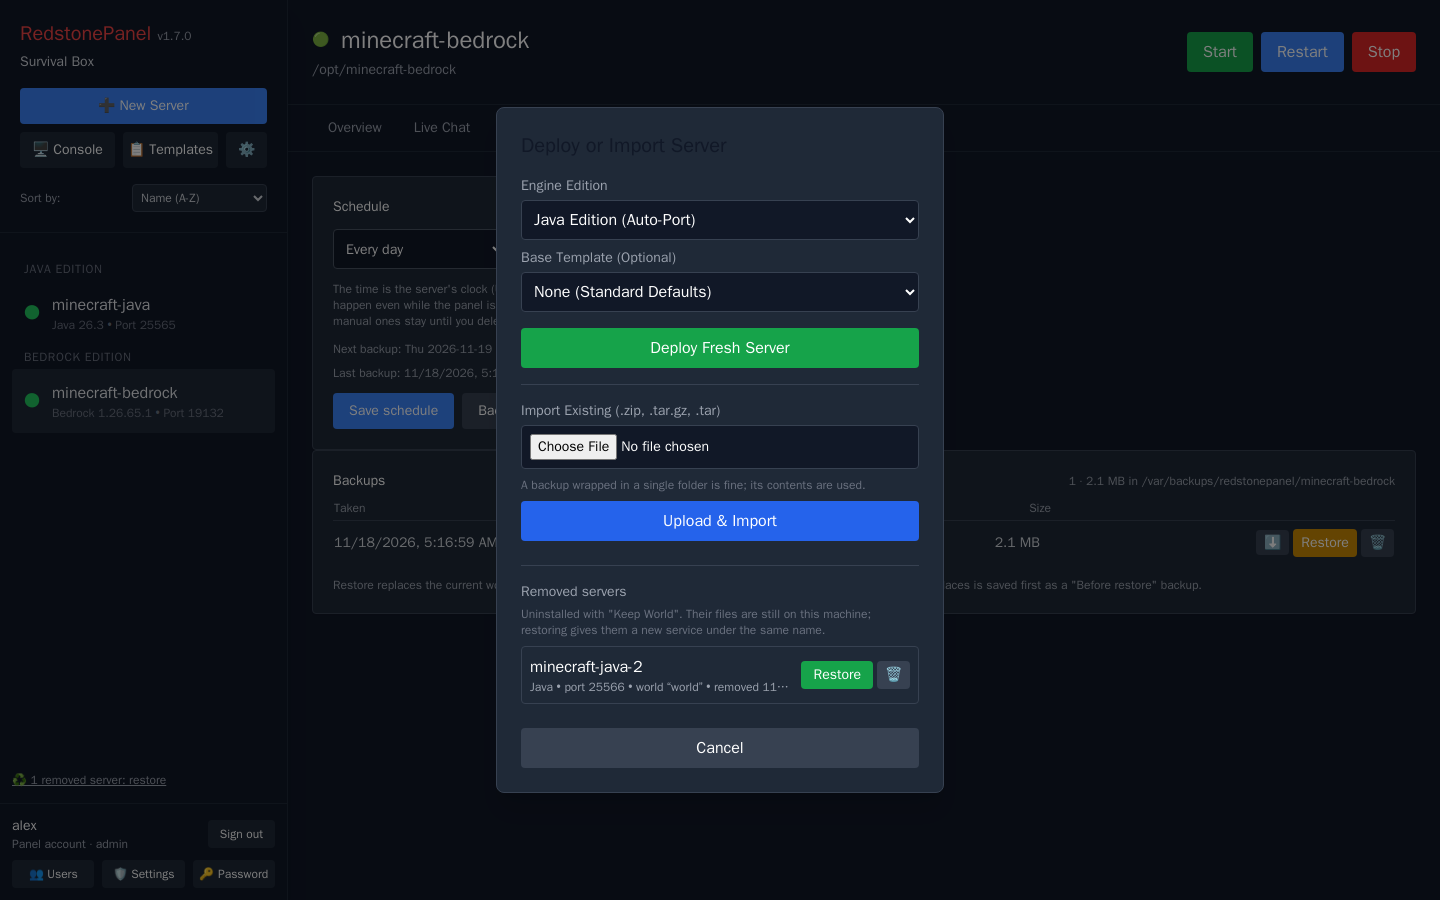
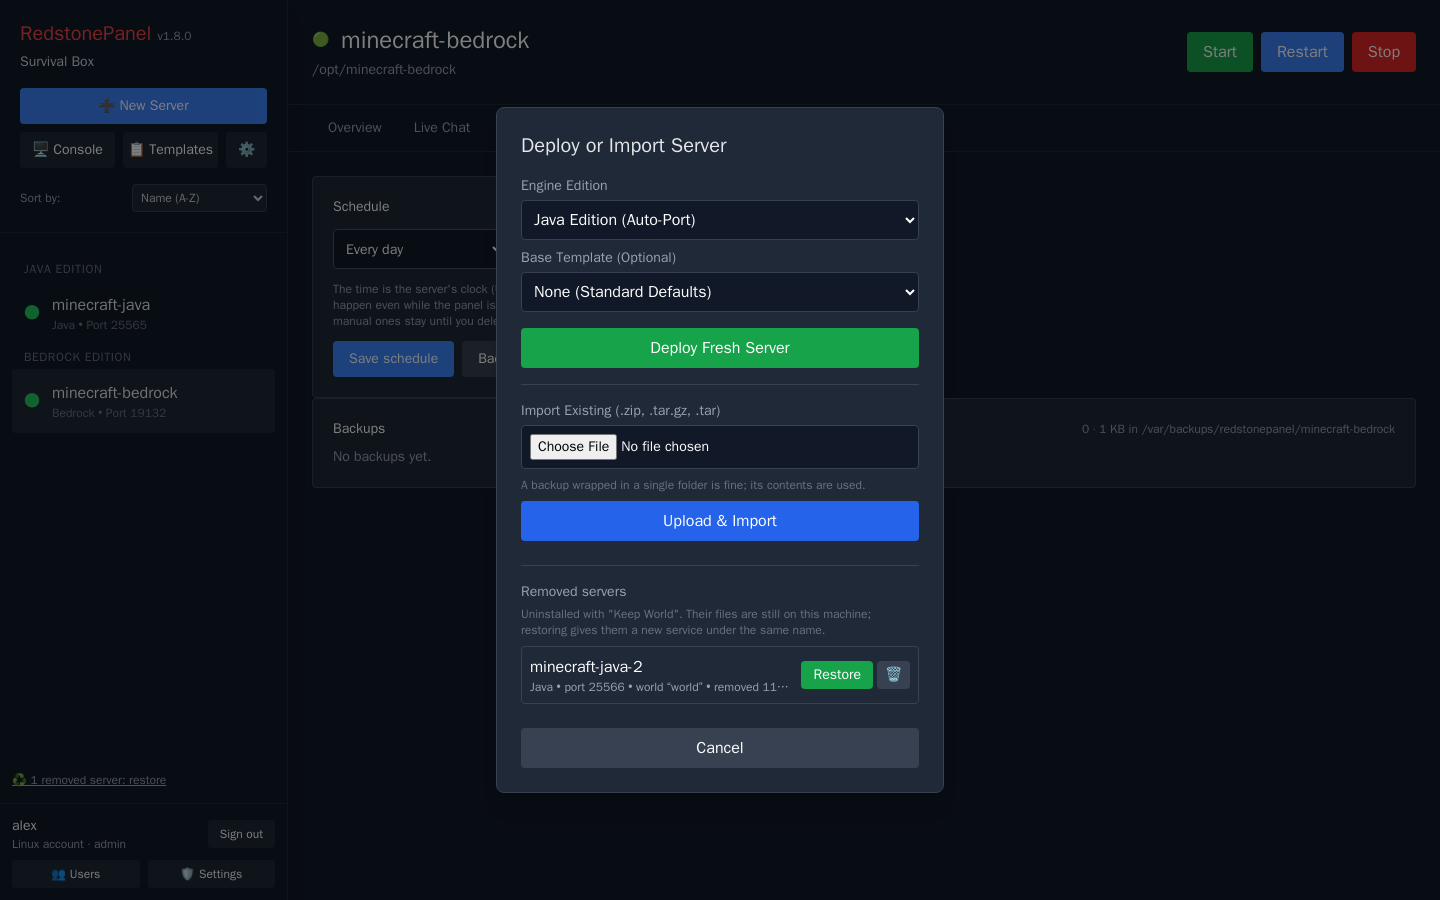
Release 1.8.1: only admins can uninstall or purge a server
Uninstall and purge needed only the user role, which trusted-LAN visitors
get without signing in. The API now refuses both for non-admins, the UI
hides them, and the log records who removed a server. Also retakes the
guide's New Server screenshot.

diff --git a/static/index.html b/static/index.html
@@ -233,14 +233,15 @@
                         <button onclick="ServerApp.updateServer()" class="bg-theme hover-bg-theme text-white px-4 py-2 rounded font-bold">Check & Update</button>
                     </div>
                 </div>
-                <div>
+                <p id="uninstall-admin-note" class="hidden text-sm text-gray-500 dark:text-gray-400 max-w-xl">Only an admin can uninstall or purge a server.</p>
+                <div class="admin-only">
                     <h3 class="text-lg font-bold mb-2 text-yellow-600 dark:text-yellow-500">Uninstall Instance</h3>
                     <div class="bg-yellow-50 dark:bg-gray-800 border border-yellow-200 dark:border-yellow-700 rounded p-5 max-w-xl flex justify-between items-center shadow-sm">
                         <p class="text-sm text-gray-700 dark:text-gray-300">Removes the system service, so the server leaves the panel. Its files stay in /opt; bring it back from ➕ New Server → Removed servers.</p>
                         <button onclick="ServerApp.uninstallServer(true)" class="bg-yellow-600 hover:bg-yellow-700 text-white px-4 py-2 rounded font-bold">Uninstall (Keep World)</button>
                     </div>
                 </div>
-                <div>
+                <div class="admin-only">
                     <h3 class="text-lg font-bold mb-2 text-red-600 dark:text-red-500">Danger Zone</h3>
                     <div class="bg-red-50 dark:bg-gray-800 border border-red-200 dark:border-red-800 rounded p-5 max-w-xl flex justify-between items-center shadow-sm">
                         <p class="text-sm text-gray-700 dark:text-gray-300">Permanently erase this server and all world data.</p>

diff --git a/static/js/app.js b/static/js/app.js
@@ -1351,6 +1351,9 @@ const ServerApp = {
 		document.getElementById('btn-manage-users').classList.toggle('hidden', u.role !== 'admin');
 		document.getElementById('btn-panel-settings').classList.toggle('hidden', u.role !== 'admin');
 		document.getElementById('btn-change-password').classList.toggle('hidden', u.source !== 'panel');
+		// Uninstall and purge are admin-only (the API refuses them too)
+		document.querySelectorAll('.admin-only').forEach(el => el.classList.toggle('hidden', u.role !== 'admin'));
+		document.getElementById('uninstall-admin-note').classList.toggle('hidden', u.role === 'admin');
 		const banner = document.getElementById('https-error-banner');
 		banner.innerText = u.https_error ? `⚠ ${u.https_error} Check Panel Settings.` : '';
 		banner.classList.toggle('hidden', !u.https_error);

diff --git a/tests/test_permissions.py b/tests/test_permissions.py
@@ -1,0 +1,61 @@
+"""Who may uninstall or purge a server. Run: python -m unittest discover -s tests"""
+import os
+import sys
+import tempfile
+import unittest
+from types import SimpleNamespace
+from unittest import mock
+
+TMP = tempfile.mkdtemp(prefix="rp-test-perms-")
+os.environ.setdefault("RP_LOG_FILE", os.path.join(TMP, "panel.log"))
+os.environ.setdefault("RP_DATA_DIR", os.path.join(TMP, "data"))
+sys.path.insert(0, os.path.dirname(os.path.dirname(os.path.abspath(__file__))))
+
+try:
+    import fastapi  # noqa: F401
+    HAVE_FASTAPI = True
+except ImportError:
+    HAVE_FASTAPI = False
+
+
+def request(username, role, source):
+    return SimpleNamespace(state=SimpleNamespace(user={"username": username, "role": role, "source": source}))
+
+
+@unittest.skipUnless(HAVE_FASTAPI, "needs fastapi")
+class Uninstall(unittest.TestCase):
+    def setUp(self):
+        import main
+        self.main = main
+        self.removed = []
+        for p in (mock.patch.object(main.manager, "_check_server", lambda s: None),
+                  mock.patch.object(main.manager, "write_log", lambda msg: None),
+                  mock.patch.object(main.manager, "remove_server",
+                                    lambda s, keep: self.removed.append((s, keep)))):
+            p.start()
+            self.addCleanup(p.stop)
+
+    def refused(self, req, keep_world):
+        with self.assertRaises(self.main.HTTPException) as cm:
+            self.main.uninstall_server(req, "minecraft-test", keep_world)
+        self.assertEqual(cm.exception.status_code, 403)
+        return cm.exception.detail
+
+    def test_users_cannot_uninstall_or_purge(self):
+        for keep in (True, False):
+            self.assertIn("Only admins", self.refused(request("alex", "user", "panel"), keep))
+        self.assertEqual(self.removed, [])
+
+    def test_trusted_lan_visitors_are_asked_to_sign_in(self):
+        for keep in (True, False):
+            self.assertIn("Sign in as an admin", self.refused(request("lan", "user", "trusted"), keep))
+        self.assertEqual(self.removed, [])
+
+    def test_admins_can(self):
+        self.main.uninstall_server(request("root", "admin", "linux"), "minecraft-test", True)
+        self.main.uninstall_server(request("root", "admin", "linux"), "minecraft-test", False)
+        self.assertEqual(self.removed, [("minecraft-test", True), ("minecraft-test", False)])
+
+
+if __name__ == "__main__":
+    unittest.main()

diff --git a/main.py b/main.py
@@ -340,7 +340,18 @@ def control_server(server_name: str, req: ServerActionRequest):
     return {"status": "success"}
 
 @app.delete("/api/servers/{server_name}")
-def uninstall_server(server_name: str, keep_world: bool = True):
+def uninstall_server(request: Request, server_name: str, keep_world: bool = True):
+    # Takes the server off the panel (or erases it): admins only, never a trusted-LAN visitor
+    if request.state.user["role"] != "admin":
+        detail = ("Sign in as an admin to uninstall a server." if request.state.user.get("source") == "trusted"
+                  else "Only admins can uninstall a server.")
+        raise HTTPException(status_code=403, detail=detail)
+    try:
+        manager._check_server(server_name)
+    except manager.ServerError as e:
+        raise HTTPException(status_code=400, detail=str(e))
+    manager.write_log(f"[REMOVE] {request.state.user['username']} is "
+                      f"{'uninstalling (keeping its files)' if keep_world else 'purging'} {server_name}.")
     try:
         manager.remove_server(server_name, keep_world)
     except manager.ServerError as e:

diff --git a/release-notes/v1.8.1.md b/release-notes/v1.8.1.md
@@ -1,0 +1,45 @@
+Only admins can uninstall or purge a server now.
+
+## Changed
+
+- **Uninstalling and purging a server need an admin.** Until now any signed-in panel user, and anyone on a trusted local network when **Not required on the local network** was on, could uninstall a server or purge it, world and all. Now the **Uninstall (Keep World)** and **Danger Zone** sections are shown only to admins, other accounts see "Only an admin can uninstall or purge a server.", and the panel refuses the request from anyone else. The activity log records who uninstalled or purged each server.
+  - If someone who isn't an admin needs to remove servers, make their account an admin under **Users**, or have them sign in with a Linux account in the `sudo` group.
+  - Restoring a removed server, backups and everything else a user could do before is unchanged.
+
+## Docs
+
+- The user guide's **New Server** screenshot shows the dialog with its title readable in dark mode.
+
+## Installing
+
+RedstonePanel runs on **Ubuntu 24.04 and 25.04**. The easiest way to install it, and to get every later version with `apt upgrade`, is the signed **qrussell-repo** apt repository:
+
+```bash
+sudo apt install -y curl ca-certificates
+curl -fsSL https://qrussell.github.io/qrussell-repo/deb/qrussell-repo.gpg | sudo tee /usr/share/keyrings/qrussell-repo.gpg >/dev/null
+echo "deb [signed-by=/usr/share/keyrings/qrussell-repo.gpg] https://qrussell.github.io/qrussell-repo/deb ./" | sudo tee /etc/apt/sources.list.d/qrussell.list
+sudo apt update
+sudo apt install redstonepanel
+```
+
+Then open **http://&lt;server&gt;:8080/** and sign in with a Linux account in the `sudo` group.
+
+To check the repository key before trusting it, `gpg --show-keys /usr/share/keyrings/qrussell-repo.gpg` should show the fingerprint `9994A9EB39EB3C101C949FB2012BA14E0FE3A355`.
+
+Prefer not to add a repository? Download `redstonepanel_1.8.1_all.deb` below and run `sudo apt install ./redstonepanel_1.8.1_all.deb`. You then install each new version the same way.
+
+The [user guide](https://github.com/qrussell/redstonepanel/blob/main/docs/guide/README.md) walks through every feature, with screenshots.
+
+## Upgrading
+
+If you use the qrussell-repo repository:
+
+```bash
+sudo apt update && sudo apt upgrade
+```
+
+New versions reach the repository within a few hours of their release. Otherwise, install the new .deb as above.
+
+Running servers keep running through the upgrade.
+
+**Full Changelog**: https://github.com/qrussell/redstonepanel/compare/v1.8.0...v1.8.1

diff --git a/docs/design/roadmap.md b/docs/design/roadmap.md
@@ -1,6 +1,6 @@
 # RedstonePanel roadmap
 
-Status: planning · Written after 1.5.0 (17 Nov 2026), updated for 1.8.0 · Author: Quentin Russell
+Status: planning · Written after 1.5.0 (17 Nov 2026), updated for 1.8.1 · Author: Quentin Russell
 
 This is the working plan for what to build next and in what order. It replaces an earlier
 generic draft. Each item says why it matters, how it fits the panel's design (Ubuntu package,
@@ -20,7 +20,7 @@ targets, not promises.
 - **One developer.** One major feature per minor release. Build a feature once someone asks
   for it, not because a competitor has it.
 
-## What already exists (1.8.0)
+## What already exists (1.8.1)
 
 Java and Bedrock servers as systemd units with `Restart=on-failure`, templates,
 `server.properties` and permissions editors, player roles, live chat over RCON or screen,
@@ -74,6 +74,11 @@ else that looks for a Bedrock world.
 5. **Console colouring.** Errors, warnings, backups/restarts, sign-ins/settings and the
    panel's own commands each get a colour. Front-end only.
 
+### 1.8.1: only admins delete *(Nov 2026)*
+
+Uninstall and purge needed no more than the `user` role, which trusted-LAN visitors get
+without signing in. Both are admin-only now (API and UI), and the log names who did it.
+
 ### 1.9: more than vanilla
 
 6. **Paper and Fabric.** The most-asked-for gap: the panel only installs Mojang's vanilla jar.
@@ -111,8 +116,6 @@ else that looks for a Bedrock world.
 - **Tests for `core/manager.py`.** Deploy, import, remove, restore and port allocation run as
   root against `/opt`; cover them with a temp `SERVERS_ROOT` and a stubbed `systemctl`, and in
   the systemd test container.
-- **Tighten who can delete.** Any signed-in `user`, and anonymous trusted-LAN visitors, can
-  currently uninstall or purge a server. Purge should need an admin; uninstall probably too.
 - **Security review** of sign-in, import (archive unpacking) and anything that builds paths.
 - **Mobile pass** on the dashboard, server list and console (there are very few responsive
   classes today).

diff --git a/docs/guide/README.md b/docs/guide/README.md
@@ -203,6 +203,9 @@ Changing a role takes effect at the next restart.
 - **Update Server → Check & Update**: stops the server, downloads the latest official release,
   and starts it again. Your world, settings, ports, operators and allowlist are kept. Take a
   backup first: a Java world opened by a newer version can't go back to an older one.
+Uninstalling and purging need an **admin**; other accounts, and visitors on a trusted local
+network, don't see these two sections.
+
 - **Uninstall (Keep World)**: removes the server's systemd service, so it leaves the panel.
   Its files stay in `/opt/minecraft-…` and its backups stay too, so it can be
   [restored](#13-restore-a-removed-server).
@@ -338,8 +341,8 @@ sudo redstonepanel restore minecraft-java-2
 
 - **Add user**: a username, a password of at least 8 characters, and a role:
   - **User** can manage servers;
-  - **Admin** can also manage panel users and Panel Settings, restore backups, and delete
-    backups and removed servers.
+  - **Admin** can also manage panel users and Panel Settings, uninstall and purge servers,
+    restore backups, and delete backups and removed servers.
 - For each account you can change the role, **Reset password**, **Disable** (it can't sign
   in until enabled again) or **Delete**.
 - Linux accounts aren't listed here; they're managed with the usual Linux tools.
@@ -397,7 +400,8 @@ Other services receive a JSON POST with the fields `text`, `event`, `server`, `p
 - **Always required (recommended)**.
 - **Not required on the local network**: devices on the private networks you list can manage
   servers without signing in. Things to know:
-  - they get the *User* role, so users and settings still need an admin sign-in;
+  - they get the *User* role, so users, settings and uninstalling servers still need an
+    admin sign-in;
   - it never applies to requests coming through a reverse proxy;
   - everyone on those networks gets in, including guests on your Wi-Fi.
 

diff --git a/README.md b/README.md
@@ -190,7 +190,8 @@ There are two kinds of account:
   ```
 
   The password is asked for interactively, or read from standard input when it is piped.
-  The default role is `admin`.
+  The default role is `admin`. A `user` manages servers; only an `admin` can also manage
+  accounts and Panel Settings, uninstall or purge a server, and restore or delete backups.
 
 `sudo redstonepanel status` shows the service state, the address, the HTTPS and sign-in
 mode, and the panel accounts. See `man redstonepanel` for details.
@@ -215,7 +216,7 @@ Admins can also change how the panel is reached under **Panel Settings**:
   `10.0.0.0/8`, `172.16.0.0/12`, `192.168.0.0/16`, `fc00::/7`) can use the panel without
   signing in. Its limits:
   - LAN visitors get the **user** role, never admin. Changing panel settings and
-    accounts still needs a sign-in.
+    accounts, and uninstalling or purging a server, still need an admin sign-in.
   - It never applies to requests through a reverse proxy (any `X-Forwarded-For`,
     `Forwarded` or `X-Real-IP` header) or from loopback, so a proxy on the same machine
     can't make internet visitors look local.
